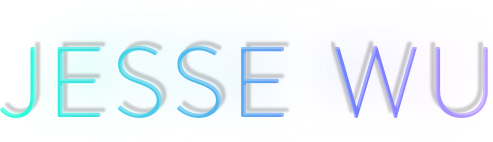
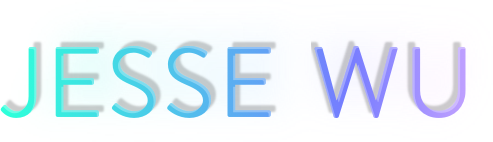
Edited hero heading

Changed region(s): [[0.0, 0.2817, 1.0, 0.8451]]

diff --git a/css/style.css b/css/style.css
@@ -404,7 +404,7 @@ line-height: 48px;
 }
 
 .hero-heading {
-	width: 350px;
+	width: 300px;
 	display: inline-block;
 	margin-bottom: 25px;
 }
